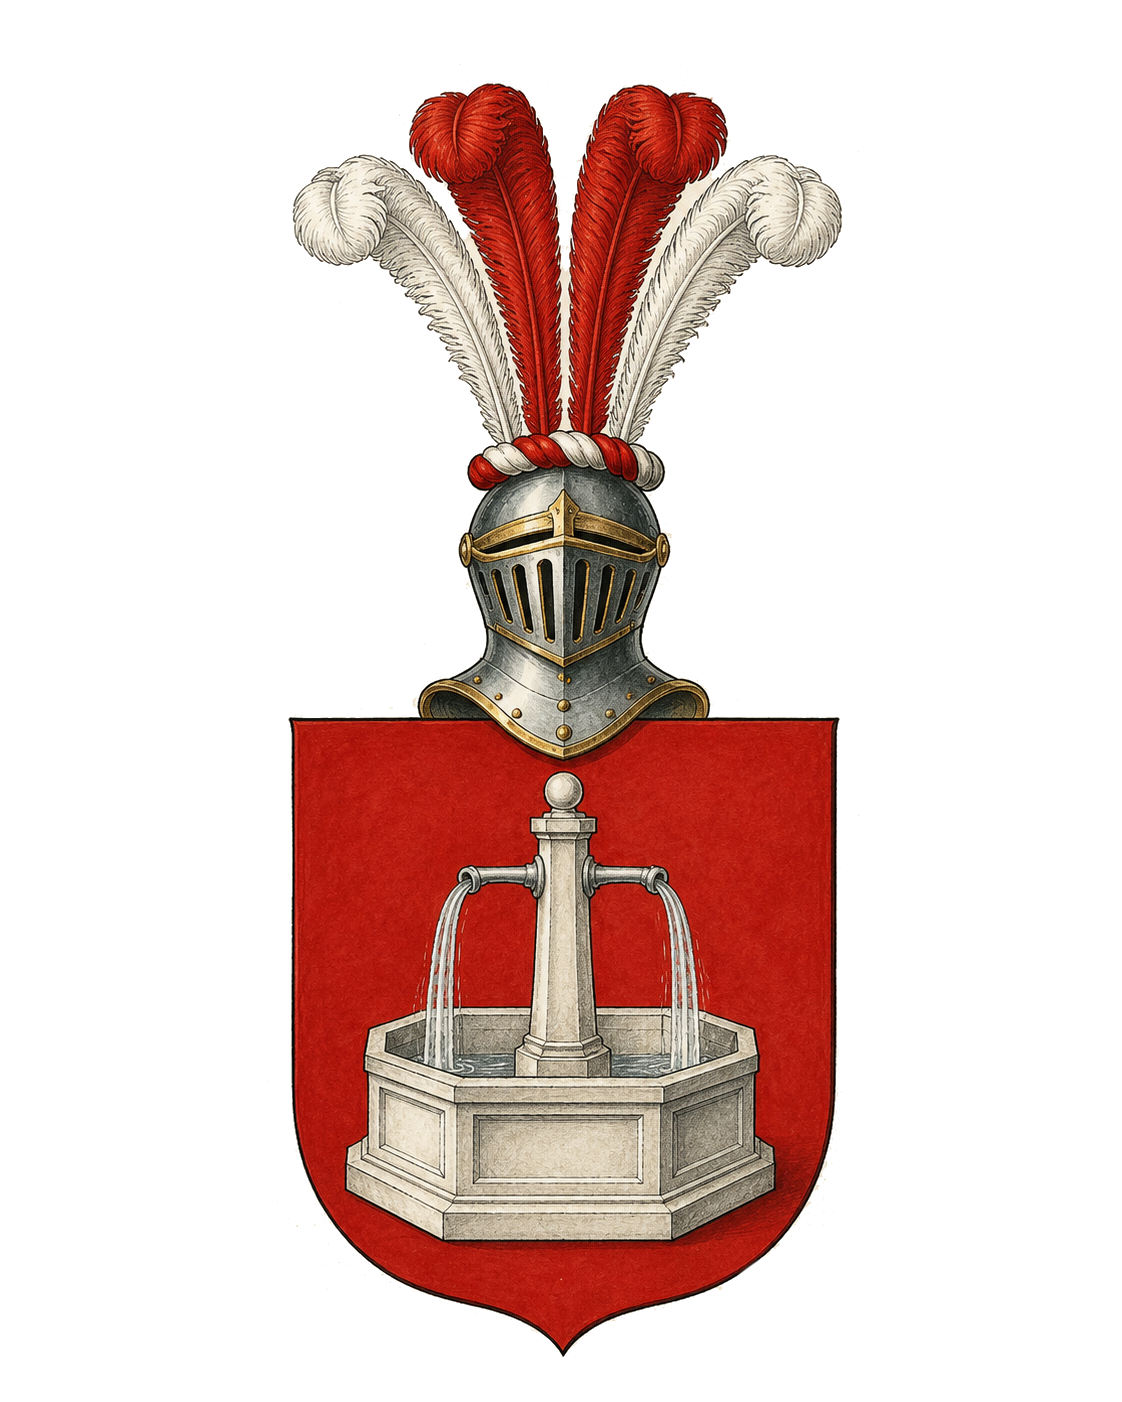
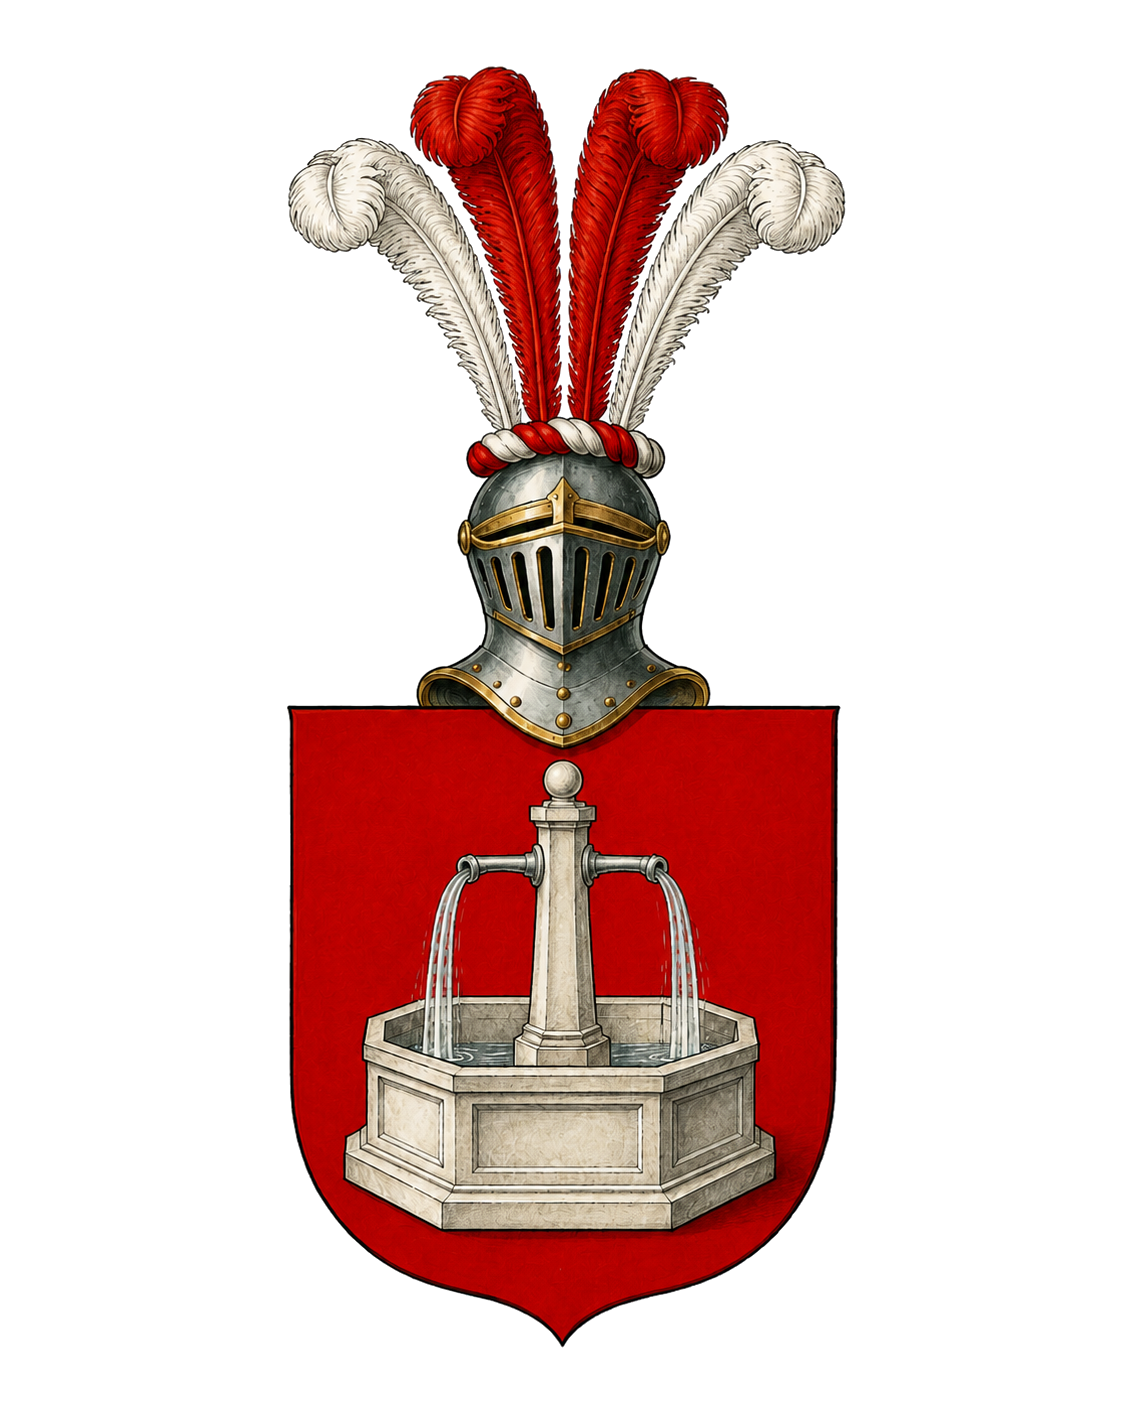
Redesigned, reencrypted, public release

Changed region(s): [[0.2496, 0.0307, 0.7487, 0.9815]]

diff --git a/topola-viewer/src/menu/top_bar.tsx b/topola-viewer/src/menu/top_bar.tsx
@@ -1,6 +1,6 @@
 import queryString from 'query-string';
 import {FormattedMessage} from 'react-intl';
-import {Link, useLocation, useNavigate} from 'react-router';
+import {useLocation, useNavigate} from 'react-router';
 import {Dropdown, Icon, Menu} from 'semantic-ui-react';
 import {IndiInfo, JsonGedcomData} from 'topola';
 import {isGoogleDriveConfigured} from '../datasource/google_drive_service';
@@ -8,7 +8,6 @@ import {Media} from '../util/media';
 import {GoogleDriveMenu} from './google_drive_menu';
 import {MenuItem, MenuType} from './menu_item';
 import {SearchBar} from './search';
-import {UploadMenu} from './upload_menu';
 import {UrlMenu} from './url_menu';
 import {WikiTreeLoginMenu, WikiTreeMenu} from './wikitree_menu';
 
@@ -204,14 +203,6 @@ export function TopBar(props: Props) {
     }
   }
 
-  function title() {
-    return (
-      <Menu.Item>
-        <b>Topola Genealogy</b>
-      </Menu.Item>
-    );
-  }
-
   function googleDriveDisconnectMenu(screenSize: ScreenSize) {
     if (!props.hasGoogleToken || !isGoogleDriveConfigured()) {
       return null;
@@ -233,71 +224,6 @@ export function TopBar(props: Props) {
         {screenSize === ScreenSize.SMALL ? <Dropdown.Divider /> : null}
       </>
     );
-  }
-
-  function fileMenuItems(menuType: MenuType) {
-    return (
-      <>
-        <UploadMenu menuType={menuType} {...props} />
-        <UrlMenu menuType={menuType} {...props} />
-        <WikiTreeMenu menuType={menuType} {...props} />
-        <GoogleDriveMenu
-          menuType={menuType}
-          onTokenAcquired={props.onGoogleTokenAcquired}
-        />
-      </>
-    );
-  }
-
-  function fileMenus(screenSize: ScreenSize) {
-    // In standalone WikiTree mode, show only the "Select WikiTree ID" menu.
-    if (!props.standalone && props.showWikiTreeMenus) {
-      switch (screenSize) {
-        case ScreenSize.LARGE:
-          return <WikiTreeMenu menuType={MenuType.Menu} {...props} />;
-        case ScreenSize.SMALL:
-          return (
-            <>
-              <WikiTreeMenu menuType={MenuType.Dropdown} {...props} />
-              <Dropdown.Divider />
-            </>
-          );
-      }
-    }
-
-    // Don't show "open" menus in non-standalone mode.
-    if (!props.standalone) {
-      return null;
-    }
-
-    switch (screenSize) {
-      case ScreenSize.LARGE:
-        // Show dropdown if chart is shown, otherwise show individual menu
-        // items.
-        return props.showingChart ? (
-          <Dropdown
-            trigger={
-              <div>
-                <Icon name="folder open" />
-                <FormattedMessage id="menu.open" defaultMessage="Open" />
-              </div>
-            }
-            className="item"
-          >
-            <Dropdown.Menu>{fileMenuItems(MenuType.Dropdown)}</Dropdown.Menu>
-          </Dropdown>
-        ) : (
-          fileMenuItems(MenuType.Menu)
-        );
-
-      case ScreenSize.SMALL:
-        return (
-          <>
-            {fileMenuItems(MenuType.Dropdown)}
-            <Dropdown.Divider />
-          </>
-        );
-    }
   }
 
   function wikiTreeLoginMenu(screenSize: ScreenSize) {
@@ -330,26 +256,11 @@ export function TopBar(props: Props) {
           icon={null}
         >
           <Dropdown.Menu>
-            {fileMenus(ScreenSize.SMALL)}
             {chartMenus(ScreenSize.SMALL)}
             {googleDriveDisconnectMenu(ScreenSize.SMALL)}
             {wikiTreeLoginMenu(ScreenSize.SMALL)}
-
-            <Dropdown.Item
-              href="https://github.com/PeWu/topola-viewer"
-              target="_blank"
-              rel="noopener noreferrer"
-            >
-              <FormattedMessage
-                id="menu.github"
-                defaultMessage="GitHub project"
-              />
-            </Dropdown.Item>
           </Dropdown.Menu>
         </Dropdown>
-        <div className="topbar--title">
-          {props.standalone ? <Link to="/">{title()}</Link> : title()}
-        </div>
         {props.showingChart && props.data && (
           <SearchBar
             data={props.data}
@@ -364,22 +275,10 @@ export function TopBar(props: Props) {
   function desktopMenus() {
     return (
       <>
-        {props.standalone ? <Link to="/">{title()}</Link> : null}
-        {fileMenus(ScreenSize.LARGE)}
         {chartMenus(ScreenSize.LARGE)}
         <Menu.Menu position="right">
           {googleDriveDisconnectMenu(ScreenSize.LARGE)}
           {wikiTreeLoginMenu(ScreenSize.LARGE)}
-          <Menu.Item
-            href="https://github.com/PeWu/topola-viewer"
-            target="_blank"
-            rel="noopener noreferrer"
-          >
-            <FormattedMessage
-              id="menu.github"
-              defaultMessage="GitHub project"
-            />
-          </Menu.Item>
         </Menu.Menu>
       </>
     );
@@ -391,8 +290,6 @@ export function TopBar(props: Props) {
         as={Media}
         greaterThanOrEqual="large"
         attached="top"
-        inverted
-        color="blue"
         size="large"
       >
         {desktopMenus()}
@@ -401,8 +298,6 @@ export function TopBar(props: Props) {
         as={Media}
         at="small"
         attached="top"
-        inverted
-        color="blue"
         size="large"
       >
         {mobileMenus()}

diff --git a/topola-viewer/src/index.css b/topola-viewer/src/index.css
@@ -1,6 +1,9 @@
 body, html {
   height: 100%;
+  background: #fff;
+  color: #222;
 }
+
 
 .node {
   cursor: pointer;
@@ -10,12 +13,14 @@ body, html {
   height: 100%;
   display: flex;
   flex-direction: column;
+  background: #fff;
 }
 
 #content {
   flex: 1 1 auto;
   height: 100%;
   overflow: hidden;
+  background: #fff;
 }
 
 #introContent {
@@ -23,6 +28,7 @@ body, html {
   height: 100%;
   overflow: hidden;
   display: flex;
+  background: #fff;
 }
 
 #unlockContent {
@@ -43,7 +49,7 @@ body, html {
   position: absolute;
   inset: -4%;
   z-index: -3;
-  background-image: url('/baechi_see-2560.jpg');
+  background-image: url('../baechi_see-2560.jpg');
   background-position: center;
   background-size: cover;
   transform: scale(1.03);
@@ -56,8 +62,8 @@ body, html {
   inset: 0;
   z-index: -2;
   background:
-    linear-gradient(90deg, rgba(232, 247, 240, 0.82) 0%, rgba(232, 247, 240, 0.5) 34%, rgba(255, 255, 255, 0.08) 100%),
-    linear-gradient(180deg, rgba(13, 49, 45, 0.08) 0%, rgba(13, 49, 45, 0.24) 100%);
+    linear-gradient(90deg, rgba(255, 255, 255, 0.18) 0%, rgba(232, 247, 240, 0.1) 38%, rgba(255, 255, 255, 0.02) 100%),
+    linear-gradient(180deg, rgba(255, 255, 255, 0.04) 0%, rgba(13, 49, 45, 0.18) 100%);
 }
 
 #unlockPanel.ui.segment {
@@ -65,13 +71,15 @@ body, html {
   position: relative;
   overflow: hidden;
   padding: clamp(28px, 5vw, 40px);
-  border: 1px solid rgba(255, 255, 255, 0.64);
+  border: 1px solid rgba(255, 255, 255, 0.72);
   border-radius: 8px;
-  background: rgba(255, 255, 255, 0.72);
+  background: linear-gradient(145deg, rgba(255, 255, 255, 0.44), rgba(255, 255, 255, 0.24));
   box-shadow:
-    0 28px 80px rgba(25, 56, 50, 0.24),
-    inset 0 1px 0 rgba(255, 255, 255, 0.72);
-  backdrop-filter: blur(20px) saturate(130%);
+    0 28px 80px rgba(25, 56, 50, 0.22),
+    inset 0 1px 0 rgba(255, 255, 255, 0.86),
+    inset 0 -1px 0 rgba(255, 255, 255, 0.24);
+  backdrop-filter: blur(28px) saturate(160%);
+  -webkit-backdrop-filter: blur(28px) saturate(160%);
 }
 
 #unlockPanel.ui.segment::before {
@@ -80,9 +88,9 @@ body, html {
   inset: 0;
   pointer-events: none;
   background:
-    linear-gradient(140deg, rgba(255, 255, 255, 0.76), transparent 42%),
-    radial-gradient(circle at 18% 10%, rgba(122, 180, 151, 0.18), transparent 30%),
-    radial-gradient(circle at 88% 88%, rgba(80, 142, 166, 0.2), transparent 34%);
+    linear-gradient(140deg, rgba(255, 255, 255, 0.72), rgba(255, 255, 255, 0.08) 38%, transparent 64%),
+    radial-gradient(circle at 18% 10%, rgba(255, 255, 255, 0.46), transparent 30%),
+    radial-gradient(circle at 88% 88%, rgba(92, 155, 176, 0.18), transparent 36%);
 }
 
 .unlockCoatOfArms,
@@ -108,8 +116,8 @@ body, html {
 #unlockPanel h1 {
   margin: 0 0 28px;
   color: #183c35;
-  font-size: clamp(2rem, 7vw, 2.7rem);
-  line-height: 0.98;
+  font-size: clamp(1.85rem, 6vw, 2.45rem);
+  line-height: 1.03;
   font-weight: 800;
   text-align: center;
 }
@@ -288,7 +296,6 @@ body, html {
     margin-bottom: 24px;
   }
 }
-
 @media (prefers-reduced-motion: reduce) {
   #unlockContent::before,
   .unlockCoatOfArms {
@@ -352,11 +359,11 @@ div.zoom {
   font-weight: bold;
   font-size: 20px;
   text-decoration: none;
-  color: black;
+  color: var(--parchment-ink);
   text-align: center;
   width: 26px;
   height: 26px;
-  background-color: #fff;
+  background-color: var(--parchment-light);
   display: block;
   line-height: 26px;
   box-sizing: content-box;
@@ -365,7 +372,7 @@ div.zoom {
 }
 
 .zoom button:hover {
-  background-color: #eee;
+  background-color: var(--parchment-panel);
 }
 
 .zoom button:focus {
@@ -645,7 +652,7 @@ div.zoom {
 
 @media (max-width: 767px) {
   #sidebar {
-    background-color: #fff;
+    background-color: var(--parchment-light);
   }
 
   #sidebar.wide {
@@ -700,4 +707,22 @@ div.zoom {
     left: initial;
     right: 0;
   }
+}
+
+.ui.menu.inverted.red {
+  background: linear-gradient(90deg, var(--brunner-red-deep) 0%, var(--brunner-red) 55%, #db3328 100%);
+  border-color: rgba(58, 10, 8, 0.28);
+  box-shadow: 0 16px 32px var(--parchment-shadow);
+}
+
+.ui.menu.inverted.red .item,
+.ui.menu.inverted.red .dropdown.item,
+.ui.menu.inverted.red .menu .item {
+  color: #fff7ef;
+}
+
+.ui.menu.inverted.red .item:hover,
+.ui.menu.inverted.red .dropdown.item:hover,
+.ui.menu.inverted.red .menu .item:hover {
+  background: rgba(255, 244, 227, 0.12);
 }

diff --git a/topola-viewer/src/pages/intro_page.tsx b/topola-viewer/src/pages/intro_page.tsx
@@ -15,7 +15,7 @@ export function IntroPage() {
   const location = useLocation();
 
   const args = useMemo(() => getArguments(location), [location]);
-  const standalone = args.standalone;
+  const standalone = true;
 
   return (
     <>

diff --git a/topola-viewer/src/sidepanel/config/config.tsx b/topola-viewer/src/sidepanel/config/config.tsx
@@ -33,7 +33,7 @@ export interface Config {
 
 export const DEFALUT_CONFIG: Config = {
   color: ChartColors.COLOR_BY_GENERATION,
-  id: Ids.SHOW,
+  id: Ids.HIDE,
   sex: Sex.SHOW,
   place: PlaceDisplay.FULL,
   placeCount: DEFAULT_PLACE_DISPLAY_COUNT,